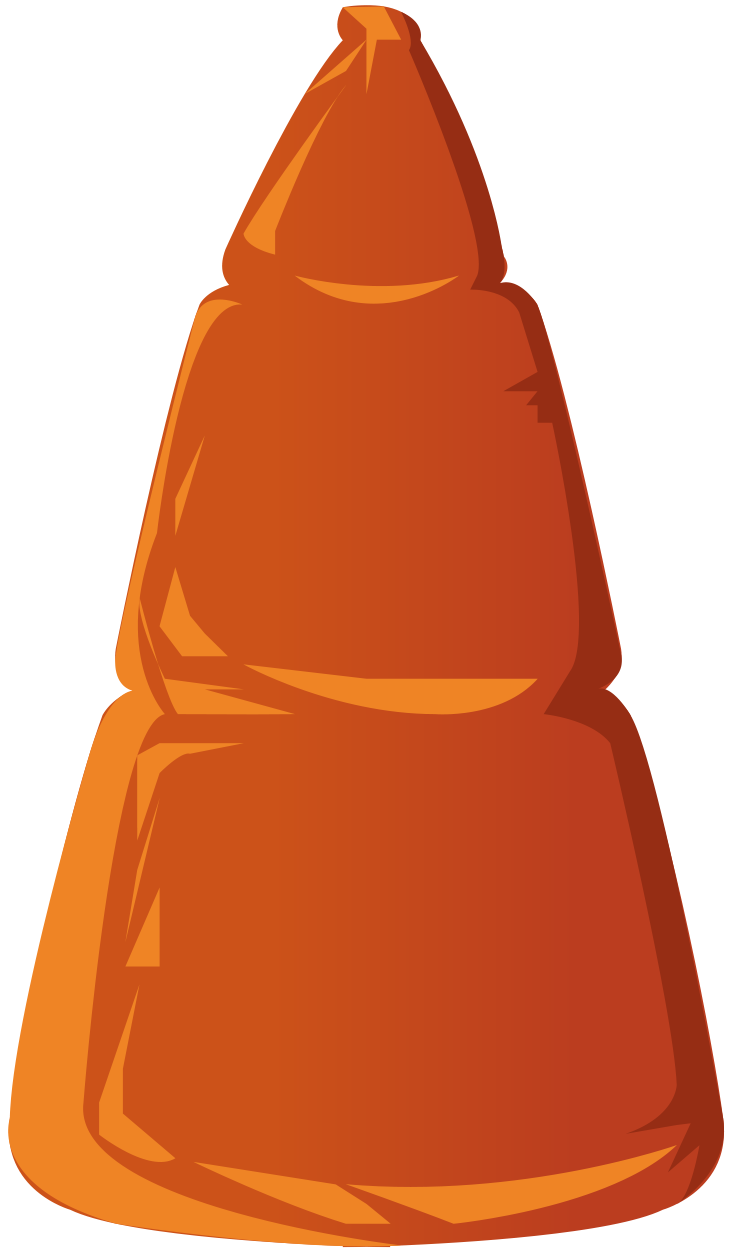
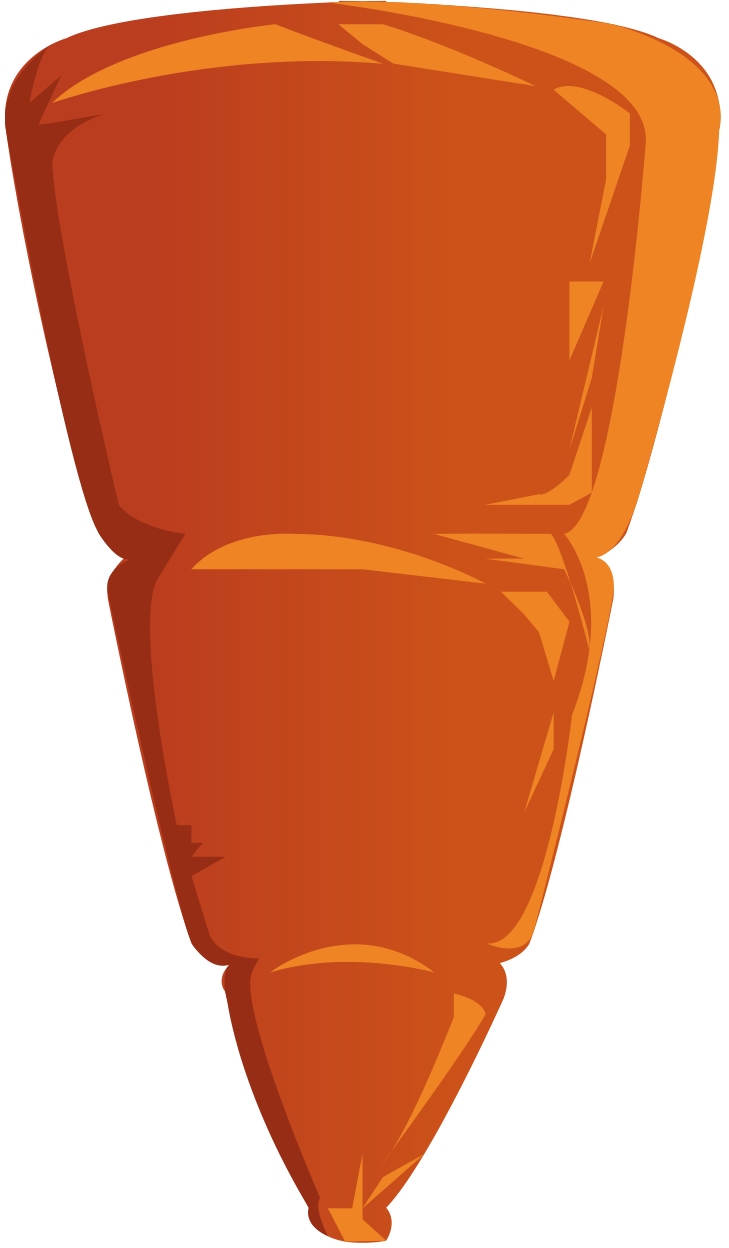
graphismes presque finaux

diff --git a/scripts/game/Level.js b/scripts/game/Level.js
@@ -126,7 +126,7 @@ define( [ "game/Box2D", "game/Wall", "game/Ship", "game/Wind", "game/Collectible
 		var wall_position = this.ship.score*2 % 600;
 
 		this.world.DrawDebugData();
-		// context.drawImage(window.Images.game_bg,0,bg_position,1920,canvas.height, 0,0,canvas.width, canvas.height);
+		context.drawImage(window.Images.game_bg,0,bg_position,1920,canvas.height, 0,0,canvas.width, canvas.height);
 		if(!!this.bottom){
 			context.drawImage(window.Images.ground,0,0,1440,556,0,this.bottom.GetBody().GetPosition()-15, canvas.width/2, 30);
 			context.drawImage(window.Images.ground,0,0,1440,556,canvas.width/2,this.bottom.GetBody().GetPosition()-15, canvas.width/2, 30);

diff --git a/scripts/game/Propulsor.js b/scripts/game/Propulsor.js
@@ -16,8 +16,9 @@ define( [ "game/Box2D", "game/Collider", "../../libs/vectors"], function( Box2D,
 		context.save();
 		context.translate(position.x*30,position.y*30);
 		context.rotate(this.body.GetAngle());
-		context.drawImage(window.Images.crate,0,0,1327,1327, -15, -15, 30,30);
-		context.restore();	}
+		context.drawImage(window.Images.carot,0,0,729,1248, -15, -15, 30,30);
+		context.restore();
+	}
 
 	Propulsor.prototype.constructor = Collider;
 
